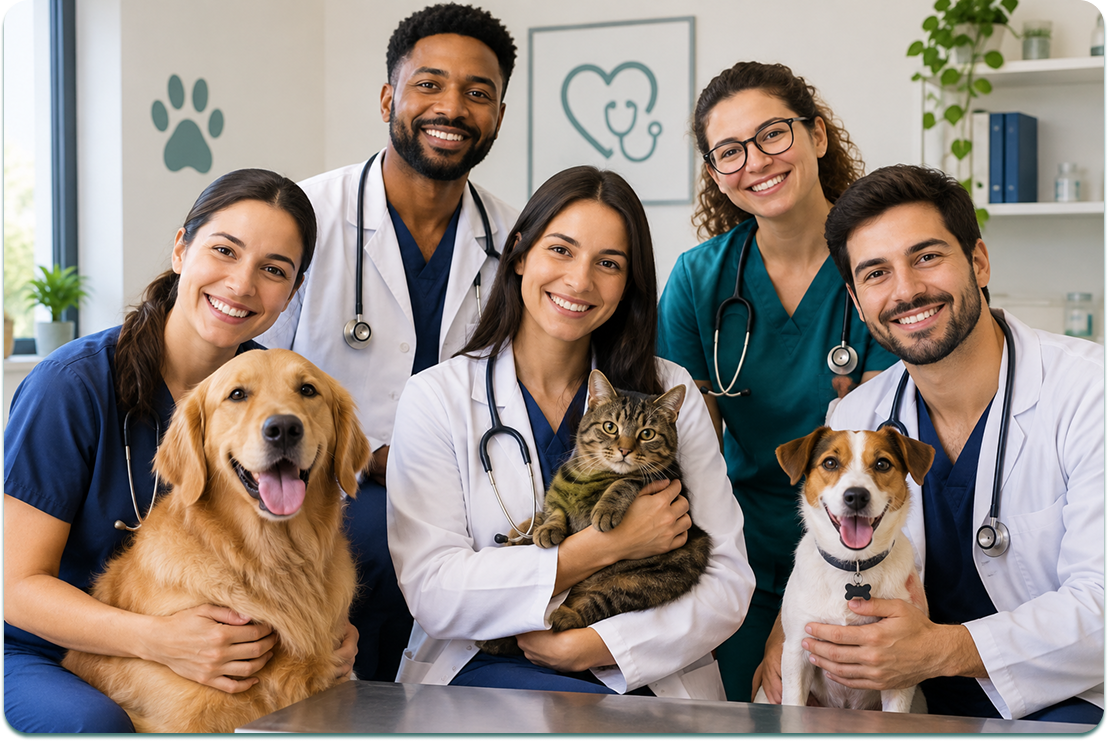
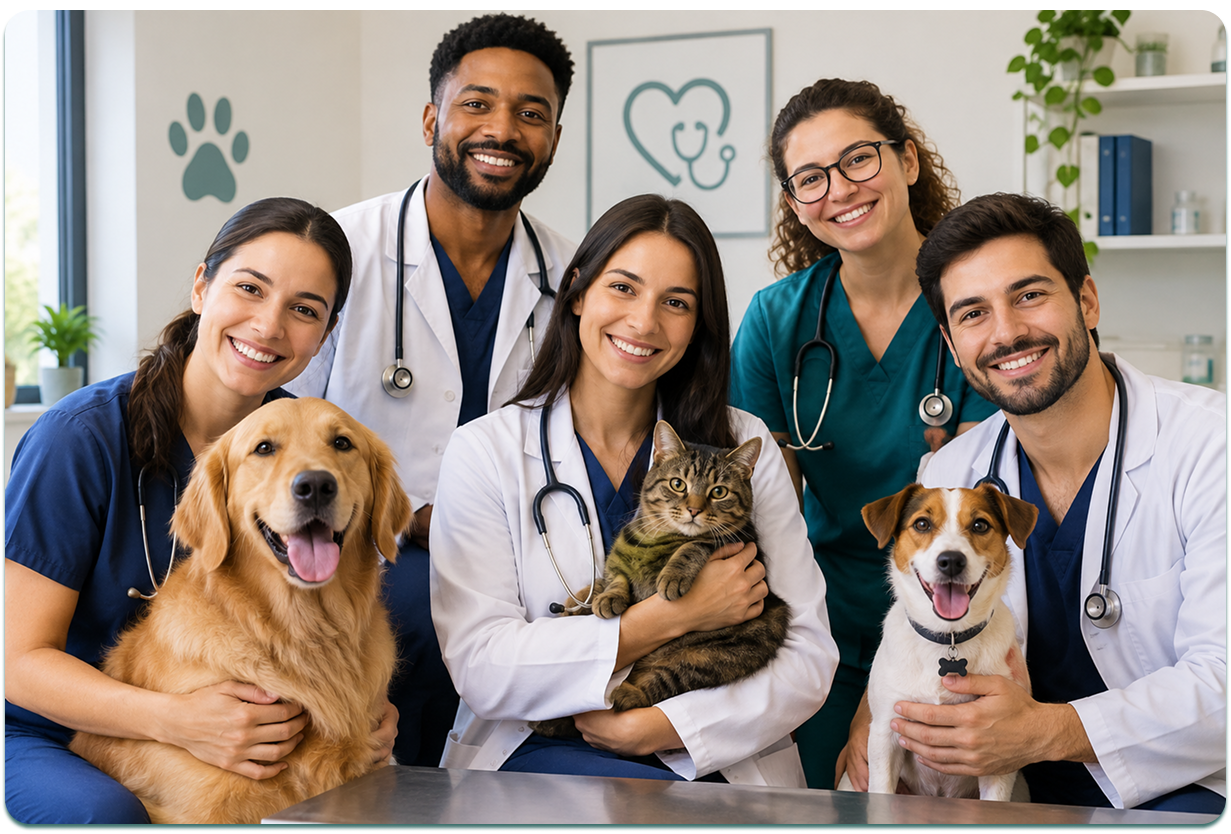
feat: estilização da página home

diff --git a/index.html b/index.html
@@ -4,7 +4,7 @@
 <head>
     <meta charset="UTF-8">
     <meta name="viewport" content="width=device-width, initial-scale=1.0">
-    <title>VetCare</title>
+    <title>VetCare | Cuidado de qualidade para seu pet</title>
     <link rel="stylesheet" href="./css/styles.css">
     <link rel="preconnect" href="https://fonts.googleapis.com">
     <link rel="preconnect" href="https://fonts.gstatic.com" crossorigin>
@@ -16,11 +16,11 @@
 
 <body>
     <header>
-        <div class="logo"><a href="./index.html"><img src="../assets/img/logo.vetcare.png"
-                    alt="VetCare Logo"></a></div>
+        <div class="logo"><a href="./index.html"><img src="../assets/img/logo.vetcare.png" alt="VetCare Logo"></a></div>
+       
         <nav class="navbar">
             <ul>
-                <li><a href="./index.html">Início</a></li>
+                <li><a href="./index.html" class="ativo">Início</a></li>
                 <li><a href="./servicos.html">Serviços</a></li>
                 <li><a href="./veterinarios.html">Veterinários</a></li>
                 <li><a href="./contato.html">Contato</a></li>
@@ -35,13 +35,13 @@
                 <p class="hero-description">Na VetCare, unimos medicina veterinária de excelência, estrutura completa e
                     um atendimento verdadeiramente acolhedor para cuidar do seu melhor amigo em todas as fases da vida.
                 </p>
-                <p class="hero-services">Consultas - Exames - Cirurgias - Vacinação - Especialidades </p>
+                <p class="hero-services"> Consultas · Exames · Cirurgias · Vacinação · Especialidades</p>
 
                 <div class="botoes">
                     <a href="#" class="btn-1">Agende um atendimento <img src="assets/icons/seta-direita-verde-2.jpg"
                             alt="seta direita"></a>
-                    <a href="#" class="btn-2">Veja nossos serviços <img
-                            src="assets/icons/seta-direita-branca.svg" alt="seta direita"></a>
+                    <a href="#" class="btn-2">Veja nossos serviços <img src="assets/icons/seta-direita-branca.svg"
+                            alt="seta direita"></a>
                 </div>
             </div>
 
@@ -65,12 +65,13 @@
                         profissionais de referência para os atendimentos d e clínica geral, cirurgia e especialidades
                         diversas.
                         Nossa estrutura conta com uma sala de espera especial para gatos, sala de cirurgia equipada e
-                        diversas salas de atendimento clínico. </p>
+                        diversas salas de atendimento clínico.
+                    </p>
 
                 </div>
 
                 <div class="imagem-sobre-nos">
-                    <img src="../assets/img/team.svg" alt="Sobre Nós">
+                    <img src="..//assets/img/team 1.png" alt="Sobre Nós">
                 </div>
 
 
@@ -82,23 +83,36 @@
 
         <section>
             <div class="estrutura">
-                <h2>Conheça a estrutura da VetCare</h2>
-                <ul>
-                    <li>Consultórios amplos</li>
-                    <li>Espaço para procedimentos;</li>
-                    <li>Espaço para recuperação cirúrgica;</li>
-                    <li>Ambiente refrigerado;</li>
-                    <li>Sala de exames;</li>
-                    <li>Espaço para higiene do seu pet;</li>
-                </ul>
+                 <h2>Conheça a estrutura da VetCare</h2>
+
+                <div class="estrutura-texto">
+                   
+                    <ul class="estrutura-lista">
+                        <li>Consultórios amplos</li>
+                        <li>Espaço para procedimentos</li>
+                        <li>Espaço para recuperação cirúrgica;</li>
+                        <li>Ambiente refrigerado;</li>
+                        <li>Sala de exames;</li>
+                        <li>Espaço para higiene do seu pet;</li>
+                    </ul>
+
+                
+
+                    <div class="imagem-estrutura">
+                         <img src="assets/img/estrutura-vetcare-2.png" alt="Estrutura VetCare">
+                    </div>
+                    
+
             </div>
 
-            <div class="imagem-estrutura">
-                <img src="../assets/img/estrutura-vetcare.jpg" alt="Estrutura VetCare">
-            </div>
+
         </section>
 
     </main>
+
+   <footer>
+        <p>&copy; 2026 VetCare. Todos os direitos reservados.</p>
+    </footer>
 
 </body>
 

diff --git a/css/styles.css b/css/styles.css
@@ -6,6 +6,7 @@
 
 html {
     font-size: 62.5%;
+    
 }
 
 h1, h2, h3, h4, h5, h6 {
@@ -25,6 +26,11 @@ body {
     line-height: 1.6;
     color: #00423D;
    
+   
+}
+
+a {
+    color: inherit;
 }
 
 /*Header*/
@@ -58,6 +64,8 @@ header {
 .navbar ul {
     list-style: none;
     display: flex;
+    align-items: center;
+    flex-wrap: wrap;
     gap: 5.4rem;
     padding: 1rem 0;
 }
@@ -85,31 +93,25 @@ header {
     padding: 1rem;
 }
 
-.navbar ul li a::after{
-    content: '';
-    position: absolute;
-    bottom: 1rem;
-    left: 50%;
-    width: 0;
-    height: 0.2rem;
-    background-color: #00423D;
-    transition: all 300ms ease-in-out;
-
-} 
-.navbar ul li a:hover::after {
-    width: 50%;
-    left: 25%;
+.navbar ul li a.ativo {
+    font-weight: bold;
+    text-decoration: underline;
+    text-underline-offset: 0.5rem; /* Ajusta a distância do sublinhado */
+    text-decoration-thickness: 0.2rem; 
 }
+
 
 .hero {
     display: flex;
-    justify-content: space-evenly;
+    justify-content: space-between;
     align-items: center;
     height: 100vh;
-    padding: 0 5rem;
+    padding: 6rem 5rem;
     margin: 2rem;
     gap: 10rem;
     margin-top: 5rem;
+    width: 100%;
+  
 }
 
 .hero-content {
@@ -119,9 +121,14 @@ header {
     flex-direction: column;
 }
 
+.hero-content h1 {
+    max-width: 65rem;
+}
+
 .hero-description {
     font-size: 2rem;
     line-height: 3.5rem;
+    max-width: 65rem;
 }
 
 .hero-services {
@@ -133,8 +140,14 @@ header {
     display: flex;
     justify-content: center;
     align-items: center;
-    width: 55.4rem;
-    height: 62rem;
+    min-width: 0;
+}
+
+.hero-image img {
+    width: 100%;
+    max-width: 55.4rem;
+    max-height: 62.0rem;
+    object-fit: contain;
 }
 
 .botoes {
@@ -142,7 +155,9 @@ header {
     flex-direction: row;
     justify-content: center;
     align-items: center;
+    flex-wrap: wrap;
     gap: 2.2rem;
+    width: 100% ;
     margin-top: 2rem;
   
    
@@ -150,14 +165,17 @@ header {
 
 .botoes .btn-1 {
     display: inline-flex;
+    justify-content: center;
     align-items: center;
     gap: 1rem;
     padding: 1.5rem 1.3rem;
+    min-height: 5.2rem; /* Garante uma altura mínima para o botão */
     border: solid 1px #00423D;
     border-radius: 0.8rem;
     font-family: roboto, sans-serif;
     font-weight: normal;
     font-size: 1.6rem;
+    line-height: 2.4rem;
     cursor: pointer;
     text-decoration: none;
     transition: background-color 0.3s ease; 
@@ -166,6 +184,7 @@ header {
 
 .botoes .btn-2 {
     display: inline-flex;
+    justify-content: center;
     align-items: center;
     gap: 1rem;
     padding: 1.5rem 1.3rem;
@@ -174,6 +193,7 @@ header {
     font-family: roboto, sans-serif;
     font-weight: normal;
     font-size: 1.6rem;
+    line-height: 2.4rem;
     cursor: pointer;
     text-decoration: none;
     transition: background-color 0.3s ease; 
@@ -196,6 +216,14 @@ header {
     font-weight: bold;
 }
 
+.botoes a img {
+    display: block;
+    flex-shrink: 0;
+    width: 1.8rem;
+    height: 1.8rem;
+    object-fit: contain;
+}
+
 .sobre-nos {
     display: flex;
     justify-content: center;
@@ -203,6 +231,7 @@ header {
     align-items: center;
     margin-top: 8rem;
     gap: 3rem;
+    
 }
 
 .texto-sobre-nos h2 {
@@ -220,4 +249,39 @@ header {
     margin: 2rem;
 }
 
+.estrutura {
+    display: flex;
+    flex-direction: column;
+    align-items: center;
+    margin:8rem 2rem 2rem;
+    gap: 6rem;
+    
+}
 
+.estrutura h2 {
+    font-size: 3.6rem;
+    line-height: 4.5rem;
+    text-align: center;
+}
+
+.estrutura-texto {
+    display: flex;
+    justify-content: center;
+    flex-direction: row;
+    align-items: center;
+    gap: 5.8rem;
+    font-size: 2.1rem;
+    line-height: 4.5rem;
+    padding: 0 5rem;
+    margin: 2rem;
+
+}
+
+footer {
+    text-align: center;
+    padding: 2rem 0;
+    background-color: #00423D;
+    color: #9CBEAA;
+    font-size: 1.6rem;
+    line-height: auto;
+}
